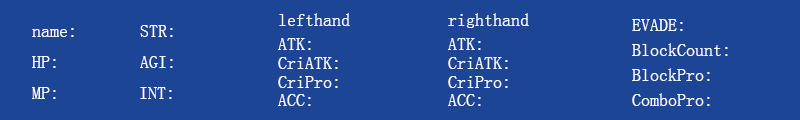
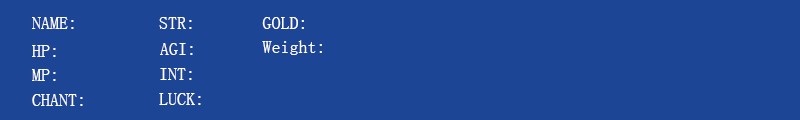
refactor : hudPlayerStateMenu

diff --git a/Classes/HudPlayerStateMenu.cpp b/Classes/HudPlayerStateMenu.cpp
@@ -24,12 +24,14 @@ void HudPlayerStateMenu::init()
 
 	playerNameLabel = Label::createWithTTF("", "fonts/arialuni.ttf", 16);
 	bk->addChild(playerNameLabel);
-
 	hpLabel = Label::createWithTTF("", "fonts/arialuni.ttf", 16);
 	bk->addChild(hpLabel);
-
 	mpLabel = Label::createWithTTF("", "fonts/arialuni.ttf", 16);
 	bk->addChild(mpLabel);
+	chantLabel = Label::createWithTTF("", "fonts/arialuni.ttf", 16);
+	bk->addChild(chantLabel);
+
+
 
 	strLabel = Label::createWithTTF("", "fonts/arialuni.ttf", 16);
 	bk->addChild(strLabel);
@@ -37,32 +39,15 @@ void HudPlayerStateMenu::init()
 	bk->addChild(agiLabel);
 	intLabel = Label::createWithTTF("", "fonts/arialuni.ttf", 16);
 	bk->addChild(intLabel);
+	luckLabel = Label::createWithTTF("", "fonts/arialuni.ttf", 16);
+	bk->addChild(luckLabel);
 
-	leftAtkLabel = Label::createWithTTF("", "fonts/arialuni.ttf", 16);
-	bk->addChild(leftAtkLabel);
-	rightAtkLabel = Label::createWithTTF("", "fonts/arialuni.ttf", 16);
-	bk->addChild(rightAtkLabel);
-	leftCriAtkLabel = Label::createWithTTF("", "fonts/arialuni.ttf", 16);
-	bk->addChild(leftCriAtkLabel);
-	rightCriAtkLabel = Label::createWithTTF("", "fonts/arialuni.ttf", 16);
-	bk->addChild(rightCriAtkLabel);
-	leftCriProLabel = Label::createWithTTF("", "fonts/arialuni.ttf", 16);
-	bk->addChild(leftCriProLabel);
-	rightCriProLabel = Label::createWithTTF("", "fonts/arialuni.ttf", 16);
-	bk->addChild(rightCriProLabel);
-	leftAccuracyCountLabel = Label::createWithTTF("", "fonts/arialuni.ttf", 16);
-	bk->addChild(leftAccuracyCountLabel);
-	rightAccuracyCountLabel = Label::createWithTTF("", "fonts/arialuni.ttf", 16);
-	bk->addChild(rightAccuracyCountLabel);
+	weightLabel = Label::createWithTTF("", "fonts/arialuni.ttf", 16);
+	bk->addChild(weightLabel);
+	goldLabel = Label::createWithTTF("", "fonts/arialuni.ttf", 16);
+	bk->addChild(goldLabel);
 
-	evadeCountLabel = Label::createWithTTF("", "fonts/arialuni.ttf", 16);
-	bk->addChild(evadeCountLabel);
-	blockCountLable = Label::createWithTTF("", "fonts/arialuni.ttf", 16);
-	bk->addChild(blockCountLable);
-	blockProCountLabel = Label::createWithTTF("", "fonts/arialuni.ttf", 16);
-	bk->addChild(blockProCountLabel);
-	comboProCountLable = Label::createWithTTF("", "fonts/arialuni.ttf", 16);
-	bk->addChild(comboProCountLable);
+
 
 	setPosition();
 
@@ -75,6 +60,8 @@ void HudPlayerStateMenu::update()
 {
 	Character* playerPtr = Player::getInstance()->getcharacterPtr();
 
+	//////////////////////////////////////////////////////////////////////////
+
 	std::string playerName = Player::getInstance()->getName();
 	playerNameLabel->setString(playerName);
 
@@ -86,6 +73,11 @@ void HudPlayerStateMenu::update()
 	std::string MP = ToolFunction::int2string(playerPtr->getMP());
 	mpLabel->setString(MP + "/" + maxMP);
 
+	std::string chant = ToolFunction::int2string(playerPtr->getChant());
+	chantLabel->setString(chant);
+
+	//////////////////////////////////////////////////////////////////////////
+
 	std::string strength = ToolFunction::int2string(playerPtr->getStrength());
 	strLabel->setString(strength);
 
@@ -95,65 +87,16 @@ void HudPlayerStateMenu::update()
 	std::string intellect = ToolFunction::int2string(playerPtr->getIntellect());
 	intLabel->setString(intellect);
 
-	std::string leftAtk = ToolFunction::int2string(
-		BattleSystem::getInstance()->getAttackCount(playerPtr, BattleSystem::AttackHand::LeftHand)
-	);
-	leftAtkLabel->setString(leftAtk);
+	std::string luck = ToolFunction::int2string(playerPtr->getLuck());
+	luckLabel->setString(luck);
 
-	std::string rightAtk = ToolFunction::int2string(
-		BattleSystem::getInstance()->getAttackCount(playerPtr, BattleSystem::AttackHand::RightHand)
-	);
-	rightAtkLabel->setString(rightAtk);
+	//////////////////////////////////////////////////////////////////////////
 
-	std::string leftCriAtk = ToolFunction::int2string(
-		BattleSystem::getInstance()->getCriticalAttackCount(playerPtr, BattleSystem::AttackHand::LeftHand)
-	);
-	leftCriAtkLabel->setString(leftCriAtk);
+	std::string weight = ToolFunction::int2string(playerPtr->getWeight());
+	weightLabel->setString(weight);
 
-	std::string rightCriAtk = ToolFunction::int2string(
-		BattleSystem::getInstance()->getCriticalAttackCount(playerPtr, BattleSystem::AttackHand::RightHand)
-	);
-	rightCriAtkLabel->setString(rightCriAtk);
-
-	std::string leftCriPro = ToolFunction::int2string(
-		BattleSystem::getInstance()->getCriticalProCount(playerPtr)
-	);
-	leftCriProLabel->setString(leftCriPro);
-
-	std::string rightCriPro = ToolFunction::int2string(
-		BattleSystem::getInstance()->getCriticalProCount(playerPtr)
-	);
-	rightCriProLabel->setString(rightCriPro);
-
-	std::string leftAccuracuCount = ToolFunction::int2string(
-		BattleSystem::getInstance()->getAccuracyCount(playerPtr)
-	);
-	leftAccuracyCountLabel->setString(leftAccuracuCount);
-
-	std::string rightAccuracyCount = ToolFunction::int2string(
-		BattleSystem::getInstance()->getAccuracyCount(playerPtr)
-	);
-	rightAccuracyCountLabel->setString(rightAccuracyCount);
-
-	std::string evadeCount = ToolFunction::int2string(
-		BattleSystem::getInstance()->getEvadeCount(playerPtr)
-	);
-	evadeCountLabel->setString(evadeCount);
-
-	std::string blockCount = ToolFunction::int2string(
-		BattleSystem::getInstance()->getBlockCount(playerPtr)
-	);
-	blockCountLable->setString(blockCount);
-
-	std::string blockProCount = ToolFunction::int2string(
-		BattleSystem::getInstance()->getBlockProCount(playerPtr)
-	);
-	blockProCountLabel->setString(blockProCount);
-
-	std::string comboCount = ToolFunction::int2string(
-		BattleSystem::getInstance()->getComboProCount(playerPtr)
-	);
-	comboProCountLable->setString(comboCount);
+	std::string gold = ToolFunction::int2string(playerPtr->getGold());
+	goldLabel->setString(gold);
 
 }
 
@@ -171,26 +114,16 @@ void HudPlayerStateMenu::setPosition()
 {
 	bk->setPosition(bk->getTexture()->getPixelsWide() / 2, bk->getTexture()->getPixelsHigh() / 2);
 
-	playerNameLabel->setPosition(100, 90);
-	hpLabel->setPosition(100, 60);
-	mpLabel->setPosition(100, 30);
+	playerNameLabel->setPosition(100, 100);
+	hpLabel->setPosition(100, 70);
+	mpLabel->setPosition(100, 45);
+	chantLabel->setPosition(100, 20);
 
-	strLabel->setPosition(200, 90);
-	agiLabel->setPosition(200, 60);
-	intLabel->setPosition(200, 30);
+	strLabel->setPosition(230, 100);
+	agiLabel->setPosition(230, 70);
+	intLabel->setPosition(230, 45);
+	luckLabel->setPosition(230, 20);
 
-	leftAtkLabel->setPosition(375, 78);
-	leftCriAtkLabel->setPosition(375, 60);
-	leftCriProLabel->setPosition(375, 40);
-	leftAccuracyCountLabel->setPosition(375, 22);
-
-	rightAtkLabel->setPosition(545, 78);
-	rightCriAtkLabel->setPosition(545, 60);
-	rightCriProLabel->setPosition(545, 40);
-	rightAccuracyCountLabel->setPosition(545, 22);
-
-	evadeCountLabel->setPosition(755,95);
-	blockCountLable->setPosition(755,70);
-	blockProCountLabel->setPosition(755,45);
-	comboProCountLable->setPosition(755,20);
+	goldLabel->setPosition(350, 100);
+	weightLabel->setPosition(350, 70);
 }

diff --git a/Classes/Character.cpp b/Classes/Character.cpp
@@ -31,6 +31,7 @@ Character::Character()
 
 	orientation = DOWN;
 	dead = false;
+	gold = 0;
 
 	leftHand = nullptr;
 	rightHand = nullptr;
@@ -42,6 +43,8 @@ Character::Character()
 	inventoryHandler = new InventoryHandler();
 	attrHandler = new CharacterAttrHandler(this);
 	buffHandler = new Buff::BuffHandler(this);
+
+	chant = 0;
 }
 
 Character::~Character()
@@ -430,6 +433,11 @@ int Character::getViewSize()
 	return attrHandler->getViewSize();
 }
 
+int Character::getLuck()
+{
+	return attrHandler->getLuck();
+}
+
 void Character::setMaxHP(int h)
 {
 	attrHandler->setMaxHP(h);
@@ -458,6 +466,11 @@ void Character::setAgility(int agility)
 void Character::setViewSize(int viewSize)
 {
 	attrHandler->setViewSize(viewSize);
+}
+
+void Character::setLuck(int luck)
+{
+	attrHandler->setLuck(luck);
 }
 
 int Character::getEvadePro()

diff --git a/Classes/CharacterAttrHandler.cpp b/Classes/CharacterAttrHandler.cpp
@@ -34,6 +34,11 @@ int CharacterAttrHandler::getAgility()
 	return attr.agility;
 }
 
+int CharacterAttrHandler::getLuck()
+{
+	return attr.luck;
+}
+
 int CharacterAttrHandler::getViewSize()
 {
 	return attr.viewSize;
@@ -117,6 +122,12 @@ void CharacterAttrHandler::setAgility(int agility)
 	recalculateBattleAttr();
 }
 
+void CharacterAttrHandler::setLuck(int luck)
+{
+	oriAttr.luck = luck;
+	attr.luck = luck;
+}
+
 void CharacterAttrHandler::setViewSize(int viewSize)
 {
 	oriAttr.viewSize = viewSize;
@@ -149,6 +160,11 @@ void CharacterAttrHandler::setAgilityByBuff(int agility)
 {
 	attr.agility = agility;
 	recalculateBattleAttr();
+}
+
+void CharacterAttrHandler::setLuckByBuff(int luck)
+{
+	attr.luck = luck;
 }
 
 void CharacterAttrHandler::setEvadePointByBuff(int e)

diff --git a/Classes/HudPlayerStateMenu.h b/Classes/HudPlayerStateMenu.h
@@ -20,22 +20,14 @@ protected:
 	cocos2d::Label* playerNameLabel;
 	cocos2d::Label* hpLabel;
 	cocos2d::Label* mpLabel;
+	cocos2d::Label* chantLabel;
+
 	cocos2d::Label* strLabel;
 	cocos2d::Label* agiLabel;
 	cocos2d::Label* intLabel;
+	cocos2d::Label* luckLabel;
 
-	cocos2d::Label* leftAtkLabel;
-	cocos2d::Label* rightAtkLabel;
-	cocos2d::Label* leftCriAtkLabel;
-	cocos2d::Label* rightCriAtkLabel;
-	cocos2d::Label* leftCriProLabel;
-	cocos2d::Label* rightCriProLabel;
-	cocos2d::Label* leftAccuracyCountLabel;
-	cocos2d::Label* rightAccuracyCountLabel;
-
-	cocos2d::Label* evadeCountLabel;
-	cocos2d::Label* blockCountLable;
-	cocos2d::Label* blockProCountLabel;
-	cocos2d::Label* comboProCountLable;
+	cocos2d::Label* weightLabel;
+	cocos2d::Label* goldLabel;
 };
 

diff --git a/Classes/CharacterAttrHandler.h b/Classes/CharacterAttrHandler.h
@@ -18,6 +18,7 @@ public:
 	int getStrength();
 	int getIntellect();
 	int getAgility();
+	int getLuck();
 
 	int getEvadePoint();
 	int getAccuracyPoint();
@@ -38,6 +39,7 @@ public:
 	void setStrength(int strength);
 	void setIntellect(int intellect);
 	void setAgility(int agility);
+	void setLuck(int luck);
 
 	//////////////////////////////////////////////////////////////////////////
 
@@ -49,6 +51,7 @@ public:
 	void setStrengthByBuff(int strength);
 	void setIntellectByBuff(int intellect);
 	void setAgilityByBuff(int agility);
+	void setLuckByBuff(int luck);
 
 	void setEvadePointByBuff(int e);
 	void setAccuracyPointByBuff(int a);

diff --git a/Classes/Character.h b/Classes/Character.h
@@ -123,6 +123,7 @@ public:
 	int getIntellect();
 	int getAgility();
 	int getViewSize();
+	int getLuck();
 
 	void setMaxHP(int h);
 	void setMaxMP(int m);
@@ -130,6 +131,7 @@ public:
 	void setIntellect(int intellect);
 	void setAgility(int agility);
 	void setViewSize(int viewSize);
+	void setLuck(int luck);
 
 	int getEvadePro();
 	int getAccuracuPro();

diff --git a/Classes/Player.cpp b/Classes/Player.cpp
@@ -42,6 +42,7 @@ void Player::init()
 	characterPtr->setStrength(10);
 	characterPtr->setAgility(10);
 	characterPtr->setIntellect(10);
+	characterPtr->setLuck(10);
 	characterPtr->setCharacterType(Character::Good);
 
 	//testInventory......
